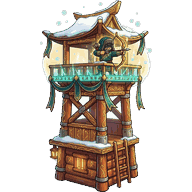
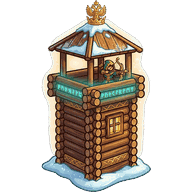
v1.5.6 (арт): башня лучника — сибирский острог (сруб, шатровая крыша) вместо пагоды, все 3 уровня, корни Верхнеудинска; версия v1.5.6, кэш SW обновлён

diff --git a/index.html b/index.html
@@ -208,7 +208,7 @@ button, .tcard { transition:transform .09s ease-out; }
     <button id="shareBtn"></button>
   </div>
   <div id="ovRecord"></div>
-  <div id="ver">v1.5.5</div>
+  <div id="ver">v1.5.6</div>
 </div>
 
 <script type="module">

diff --git a/sw.js b/sw.js
@@ -1,5 +1,5 @@
 // Оборона Байкала — минимальный SW. Кэш версионируется: смена имени = полное обновление.
-const CACHE = 'baikal-v1.5.5';
+const CACHE = 'baikal-v1.5.6';
 const PRECACHE = ['./', './index.html', './strings.js', './manifest.json'];
 
 self.addEventListener('install', e => {